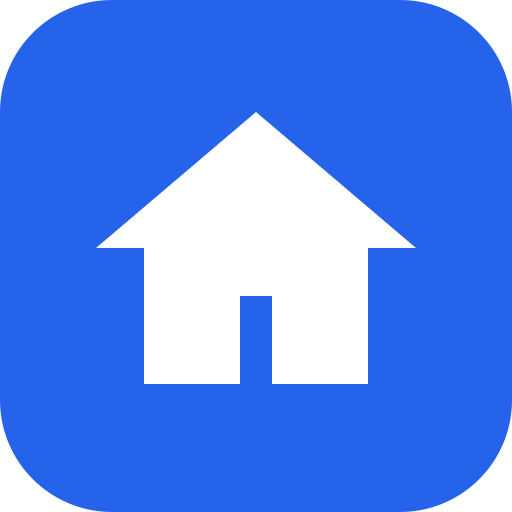
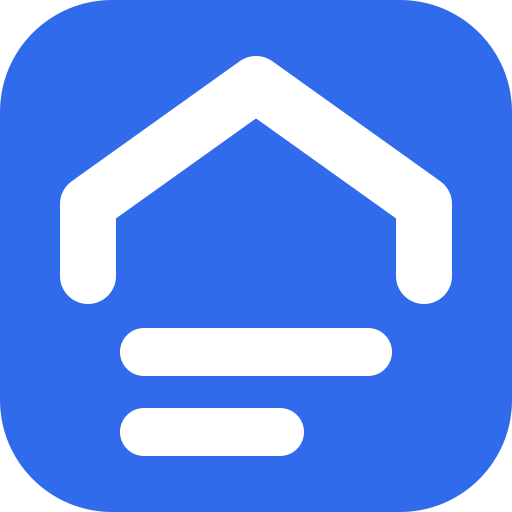
New app mark: a roof sheltering two lines of news
Replaces the clip-art house with one drawing used everywhere: the PWA icon, the accent
square in the header and on the login card (BrandIcon, 64 grid, strokes 7/6), and the
"Știri" tab (HomeIcon, 24 grid, stroke 2, matching the star and gear). The reader icon
gets the same two-line rhythm. Icon colour is the current blue accent (#2f6bea); the
header square's corner matches the icon (22%). The manifest now also lists the PNG and
maskable icons so Android installs a full-bleed icon instead of a small one in a white
circle. scripts/icons.mjs regenerates the PNGs from the same path data.

diff --git a/src/components/Icons.tsx b/src/components/Icons.tsx
@@ -1,9 +1,15 @@
+// UI icons: 24px grid, 2px strokes (or solid fills), round caps and joins, 1.5px inner clearances.
+// HomeIcon is the app mark (a roof sheltering two lines of news) drawn in the icon set's own weight;
+// BrandIcon is the mark itself, as in public/icon.svg, for the accent square in the header and the Login card.
 type P = { className?: string }
+export const BrandIcon = ({ className }: P) => (
+  <svg className={className} viewBox="0 0 64 64" fill="none" stroke="currentColor" strokeLinecap="round" strokeLinejoin="round" aria-hidden="true"><path d="M11 34.5V25.5L32 10.5 53 25.5V34.5" strokeWidth="7" /><path d="M18 44h28M18 54h17" strokeWidth="6" /></svg>
+)
 export const HomeIcon = ({ className }: P) => (
-  <svg className={className} viewBox="0 0 24 24" fill="none" stroke="currentColor" strokeWidth="2" strokeLinecap="round" strokeLinejoin="round" aria-hidden="true"><path d="M3 11 12 3l9 8" /><path d="M5 10v10h5v-6h4v6h5V10" /></svg>
+  <svg className={className} viewBox="0 0 24 24" fill="none" stroke="currentColor" strokeWidth="2" strokeLinecap="round" strokeLinejoin="round" aria-hidden="true"><path d="M4 13V9.5L12 4l8 5.5V13" /><path d="M7 16.5h10M7 20h6" /></svg>
 )
 export const StarIcon = ({ className, filled }: P & { filled?: boolean }) => (
-  <svg className={className} viewBox="0 0 24 24" fill={filled ? 'currentColor' : 'none'} stroke="currentColor" strokeWidth="2" strokeLinejoin="round" aria-hidden="true"><path d="m12 3 2.8 5.9 6.4.8-4.7 4.4 1.2 6.4L12 17.4l-5.7 3.1 1.2-6.4L2.8 9.7l6.4-.8z" /></svg>
+  <svg className={className} viewBox="0 0 24 24" fill={filled ? 'currentColor' : 'none'} stroke="currentColor" strokeWidth="2" strokeLinecap="round" strokeLinejoin="round" aria-hidden="true"><path d="m12 3 2.8 5.9 6.4.8-4.7 4.4 1.2 6.4L12 17.4l-5.7 3.1 1.2-6.4L2.8 9.7l6.4-.8z" /></svg>
 )
 export const GearIcon = ({ className }: P) => (
   <svg className={className} viewBox="0 0 24 24" fill="none" stroke="currentColor" strokeWidth="2" strokeLinecap="round" strokeLinejoin="round" aria-hidden="true"><circle cx="12" cy="12" r="3" /><path d="M19.4 15a1.7 1.7 0 0 0 .3 1.8l.1.1a2 2 0 1 1-2.8 2.8l-.1-.1a1.7 1.7 0 0 0-1.8-.3 1.7 1.7 0 0 0-1 1.5V21a2 2 0 1 1-4 0v-.1a1.7 1.7 0 0 0-1.1-1.5 1.7 1.7 0 0 0-1.8.3l-.1.1a2 2 0 1 1-2.8-2.8l.1-.1a1.7 1.7 0 0 0 .3-1.8 1.7 1.7 0 0 0-1.5-1H3a2 2 0 1 1 0-4h.1a1.7 1.7 0 0 0 1.5-1.1 1.7 1.7 0 0 0-.3-1.8l-.1-.1a2 2 0 1 1 2.8-2.8l.1.1a1.7 1.7 0 0 0 1.8.3H9a1.7 1.7 0 0 0 1-1.5V3a2 2 0 1 1 4 0v.1a1.7 1.7 0 0 0 1 1.5 1.7 1.7 0 0 0 1.8-.3l.1-.1a2 2 0 1 1 2.8 2.8l-.1.1a1.7 1.7 0 0 0-.3 1.8V9a1.7 1.7 0 0 0 1.5 1H21a2 2 0 1 1 0 4h-.1a1.7 1.7 0 0 0-1.5 1z" /></svg>
@@ -12,10 +18,10 @@ export const RefreshIcon = ({ className }: P) => (
   <svg className={className} viewBox="0 0 24 24" fill="none" stroke="currentColor" strokeWidth="2" strokeLinecap="round" strokeLinejoin="round" aria-hidden="true"><path d="M21 12a9 9 0 1 1-2.6-6.4" /><path d="M21 3v6h-6" /></svg>
 )
 export const SearchIcon = ({ className }: P) => (
-  <svg className={className} viewBox="0 0 24 24" fill="none" stroke="currentColor" strokeWidth="2" strokeLinecap="round" aria-hidden="true"><circle cx="11" cy="11" r="7" /><path d="m20 20-3.5-3.5" /></svg>
+  <svg className={className} viewBox="0 0 24 24" fill="none" stroke="currentColor" strokeWidth="2" strokeLinecap="round" strokeLinejoin="round" aria-hidden="true"><circle cx="11" cy="11" r="7" /><path d="m20 20-3.5-3.5" /></svg>
 )
 export const BookIcon = ({ className }: P) => (
-  <svg className={className} viewBox="0 0 24 24" fill="none" stroke="currentColor" strokeWidth="2" strokeLinecap="round" strokeLinejoin="round" aria-hidden="true"><path d="M4 5a2 2 0 0 1 2-2h13v16H6a2 2 0 0 0-2 2z" /><path d="M4 19V5" /><path d="M8 7h7M8 11h7" /></svg>
+  <svg className={className} viewBox="0 0 24 24" fill="none" stroke="currentColor" strokeWidth="2" strokeLinecap="round" strokeLinejoin="round" aria-hidden="true"><path d="M4 5a2 2 0 0 1 2-2h13v16H6a2 2 0 0 0-2 2z" /><path d="M4 19V5" /><path d="M8 7h7M8 11h4.5" /></svg>
 )
 export const BackIcon = ({ className }: P) => (
   <svg className={className} viewBox="0 0 24 24" fill="none" stroke="currentColor" strokeWidth="2" strokeLinecap="round" strokeLinejoin="round" aria-hidden="true"><path d="M15 5l-7 7 7 7" /></svg>

diff --git a/src/pages/Login.tsx b/src/pages/Login.tsx
@@ -2,7 +2,7 @@ import { useState, type FormEvent } from 'react'
 import { supabase } from '../lib/supabase'
 import type { T } from '../lib/i18n'
 import type { Language } from '../lib/types'
-import { HomeIcon } from '../components/Icons'
+import { BrandIcon } from '../components/Icons'
 
 type Mode = 'link' | 'password'
 
@@ -37,7 +37,7 @@ export default function Login({ t, lang, onLanguage }: { t: T; lang: Language; o
     <div className="container">
       <form className="card login" onSubmit={submit}>
         <div className="login-top">
-          <span className="brand"><span className="brand-mark"><HomeIcon /></span>{t('appName')}</span>
+          <span className="brand"><span className="brand-mark"><BrandIcon /></span>{t('appName')}</span>
           <div className="seg seg-small" role="group" aria-label={t('settings.language')}>
             <button type="button" aria-pressed={lang === 'en'} onClick={() => onLanguage('en')}>EN</button>
             <button type="button" aria-pressed={lang === 'ro'} onClick={() => onLanguage('ro')}>RO</button>

diff --git a/src/styles/base.css b/src/styles/base.css
@@ -74,7 +74,7 @@ main { flex: 1; padding: 16px 0 calc(40px + env(safe-area-inset-bottom)); }
 }
 .header .container { display: flex; align-items: center; gap: 12px; min-height: 60px; padding-top: env(safe-area-inset-top); }
 .brand { display: flex; align-items: center; gap: 10px; font-weight: 700; font-size: 1.15em; text-decoration: none; }
-.brand-mark { width: 1.6em; height: 1.6em; border-radius: 30%; background: var(--accent); color: var(--accent-fg); display: grid; place-items: center; }
+.brand-mark { width: 1.6em; height: 1.6em; border-radius: 22%; background: var(--accent); color: var(--accent-fg); display: grid; place-items: center; }
 .spacer { flex: 1; }
 .nav { display: flex; gap: 4px; }
 .nav button { display: flex; flex-direction: column; align-items: center; justify-content: center; gap: 2px; min-width: var(--tap); min-height: var(--tap); padding: 6px 14px; border: 0; border-radius: var(--radius-sm); background: transparent; color: var(--muted); font-weight: 600; }

diff --git a/src/components/Header.tsx b/src/components/Header.tsx
@@ -1,6 +1,6 @@
 import type { T } from '../lib/i18n'
 import type { Route, RouteName } from '../hooks/useHashRoute'
-import { GearIcon, HomeIcon, StarIcon } from './Icons'
+import { BrandIcon, GearIcon, HomeIcon, StarIcon } from './Icons'
 
 type Props = { t: T; route: Route; go: (r: RouteName) => void; name?: string | null }
 
@@ -28,7 +28,7 @@ export default function Header(props: Props) {
     <header className="header">
       <div className="container">
         <a className="brand" href="#/" onClick={(e) => { e.preventDefault(); go('feed') }}>
-          <span className="brand-mark"><HomeIcon /></span>
+          <span className="brand-mark"><BrandIcon /></span>
           {t('appName')}
         </a>
         <span className="spacer" />
